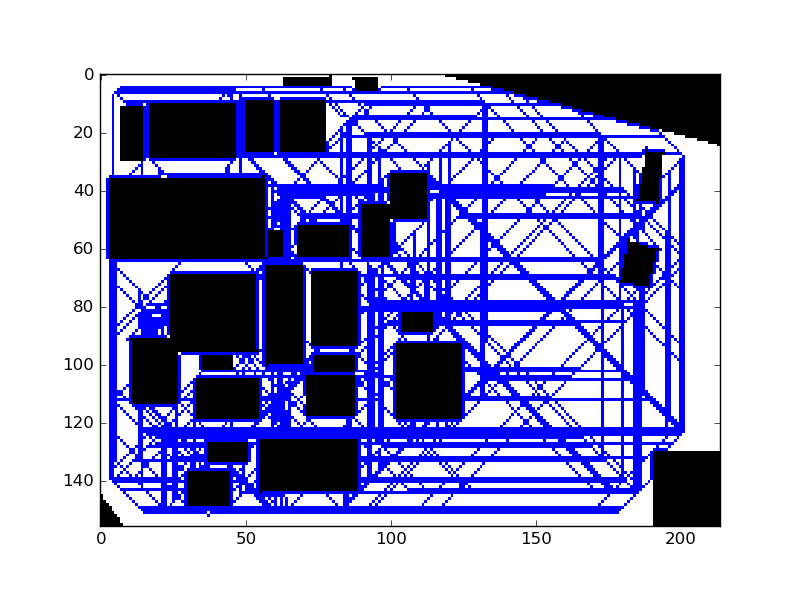
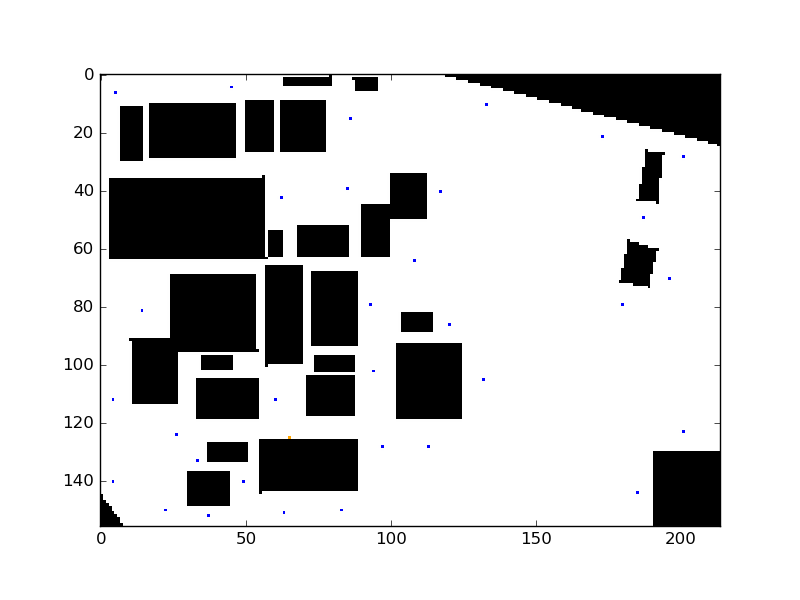
plan plot + handle infinite number of drones

Changed region(s): [[0.125, 0.12, 0.875, 0.87]]

diff --git a/master/scripts/planner/planner.py b/master/scripts/planner/planner.py
@@ -4,6 +4,8 @@ Defines the path planner module.
 from sys import path
 from simanneal import Annealer
 import random
+import matplotlib.pyplot as plt
+from matplotlib import colors
 path.append("..")
 
 import settings
@@ -22,6 +24,7 @@ class PatrolPlanner(Annealer):
         self.mapper = mapper
         self.nb_drone = nb_drone
         self.targets = self.mapper.default_targets
+        self.mapped_paths = self.mapper.world
         #random.shuffle(self.targets)
         self.battery_plan = [0 for d in range(nb_drone)]
 
@@ -32,7 +35,7 @@ class PatrolPlanner(Annealer):
 
         for d in range(self.nb_drone):
             for n in self.targets:
-                if self.battery_plan[d] + self.mapper.paths[(self.state[d][len(self.state) - 2], n)][1] + self.mapper.paths[(n, self.state[d][len(self.state) - 1])][1] < settings.MAX_BATTERY_UNIT:
+                if self.battery_plan[d] + self.mapper.paths[(self.state[d][len(self.state[d]) - 2], n)][1] + self.mapper.paths[(n, self.state[d][len(self.state[d]) - 1])][1] < settings.MAX_BATTERY_UNIT:
                     self.state[d].insert(len(self.state[d]) - 1, n)
                     self.battery_plan[d] += self.mapper.paths[(self.state[d][len(self.state[d]) - 2], n)][1] + self.mapper.paths[(n, self.state[d][len(self.state[d]) - 1])][1]
                     self.targets.remove(n)
@@ -52,6 +55,26 @@ class PatrolPlanner(Annealer):
 
         return e
 
+    def plot_plan(self, show=True):
+        """
+        Plot the environment
+        """
+
+        print("Ploting world")
+        for d in range(self.nb_drone):
+            for i in range(1, len(self.state[d])):
+                path = self.mapper.paths[(self.state[d][i-1], self.state[d][i])][0]
+                for p in path:
+                    self.mapped_paths[p[0]][p[1]] = 2 + d
+        cmap = colors.ListedColormap(['white', 'black', 'red', 'orange', 'blue'])
+        plt.imshow(self.mapped_paths, interpolation="none", cmap=cmap)
+        save = True
+        if show:
+            plt.show()
+            save = False
+        if save:
+            plt.savefig('data/plot/plan/annealing_' + str(settings.X_SIZE) + 'x' + str(settings.Y_SIZE) + '.png', dpi=800)
+
 
 def get_computed_path(mapper, nb_drone):
     state = [[mapper.starting_point, mapper.starting_point] for d in range(nb_drone)]
@@ -63,8 +86,5 @@ def get_computed_path(mapper, nb_drone):
     print(pplan.battery_plan)
     print(itinerary)
     print(energy)
-    for d in range(nb_drone):
-        for p in itinerary[d]:
-            pplan.mapper.world_plan[p[0]][p[1]] = 2
-    pplan.mapper.plot_plan()
+    pplan.plot_plan()
     return 0

diff --git a/master/scripts/planner/map_converter.py b/master/scripts/planner/map_converter.py
@@ -88,13 +88,11 @@ class Mapper():
         self.paths = {(d1, d2):astar.astar(self.world, tuple(reversed(d1)), tuple(reversed(d2))) for d1 in tqdm(self.default_targets) for d2 in self.default_targets}
         self.default_targets = self.default_targets[:-1] #Removing the starting point from target points list
         print("Paths computed")
-        self.world_paths = self.world
-        self.world_plan = self.world
-        for k in self.paths:
-            if self.paths[k][0]:
-                for c in self.paths[k][0]:
-                    self.world_paths[c[0]][c[1]] = 4
-
+        #self.mapped_paths = self.world
+        #for k in self.paths:
+        #    if self.paths[k][0]:
+        #        for c in self.paths[k][0]:
+        #            self.mapped_paths[c[0]][c[1]] = 4
 
         #Environment uncertainty
         #self.uncertainty_grid = self.create_uncertainty_grid()
@@ -204,21 +202,6 @@ class Mapper():
         print("Ploting world")
         cmap = colors.ListedColormap(['white', 'black', 'red', 'orange', 'blue'])
         plt.imshow(self.world, interpolation="none", cmap=cmap)
-        save = True
-        if show:
-            plt.show()
-            save = False
-        if save:
-            plt.savefig('data/plot/map_gris_' + str(settings.X_SIZE) + 'x' + str(settings.Y_SIZE) + '.png', dpi=100)
-
-    def plot_plan(self, show=True):
-        """
-        Plot the environment
-        """
-
-        print("Ploting world")
-        cmap = colors.ListedColormap(['white', 'black', 'red', 'orange', 'blue'])
-        plt.imshow(self.world_plan, interpolation="none", cmap=cmap)
         save = True
         if show:
             plt.show()

diff --git a/master/scripts/settings.py b/master/scripts/settings.py
@@ -3,10 +3,10 @@ Define global variables for the overall system
 """
 
 #Path variables
-TEMPLATE_PATH = "/home/scom/Documents/opu_surveillance_system/monitoring/master/"
-STATIC_PATH = "/home/scom/Documents/opu_surveillance_system/monitoring/static/"
-#TEMPLATE_PATH = "/home/jordan/Documents/tobikoma/monitoring/master/"
-#STATIC_PATH = "/home/jordan/Documents/tobikoma/monitoring/static"
+#TEMPLATE_PATH = "/home/scom/Documents/opu_surveillance_system/monitoring/master/"
+#STATIC_PATH = "/home/scom/Documents/opu_surveillance_system/monitoring/static/"
+TEMPLATE_PATH = "/home/jordan/Documents/tobikoma/monitoring/master/"
+STATIC_PATH = "/home/jordan/Documents/tobikoma/monitoring/static"
 
 #Map Converter
 X_SIZE = int(858 / 4)
